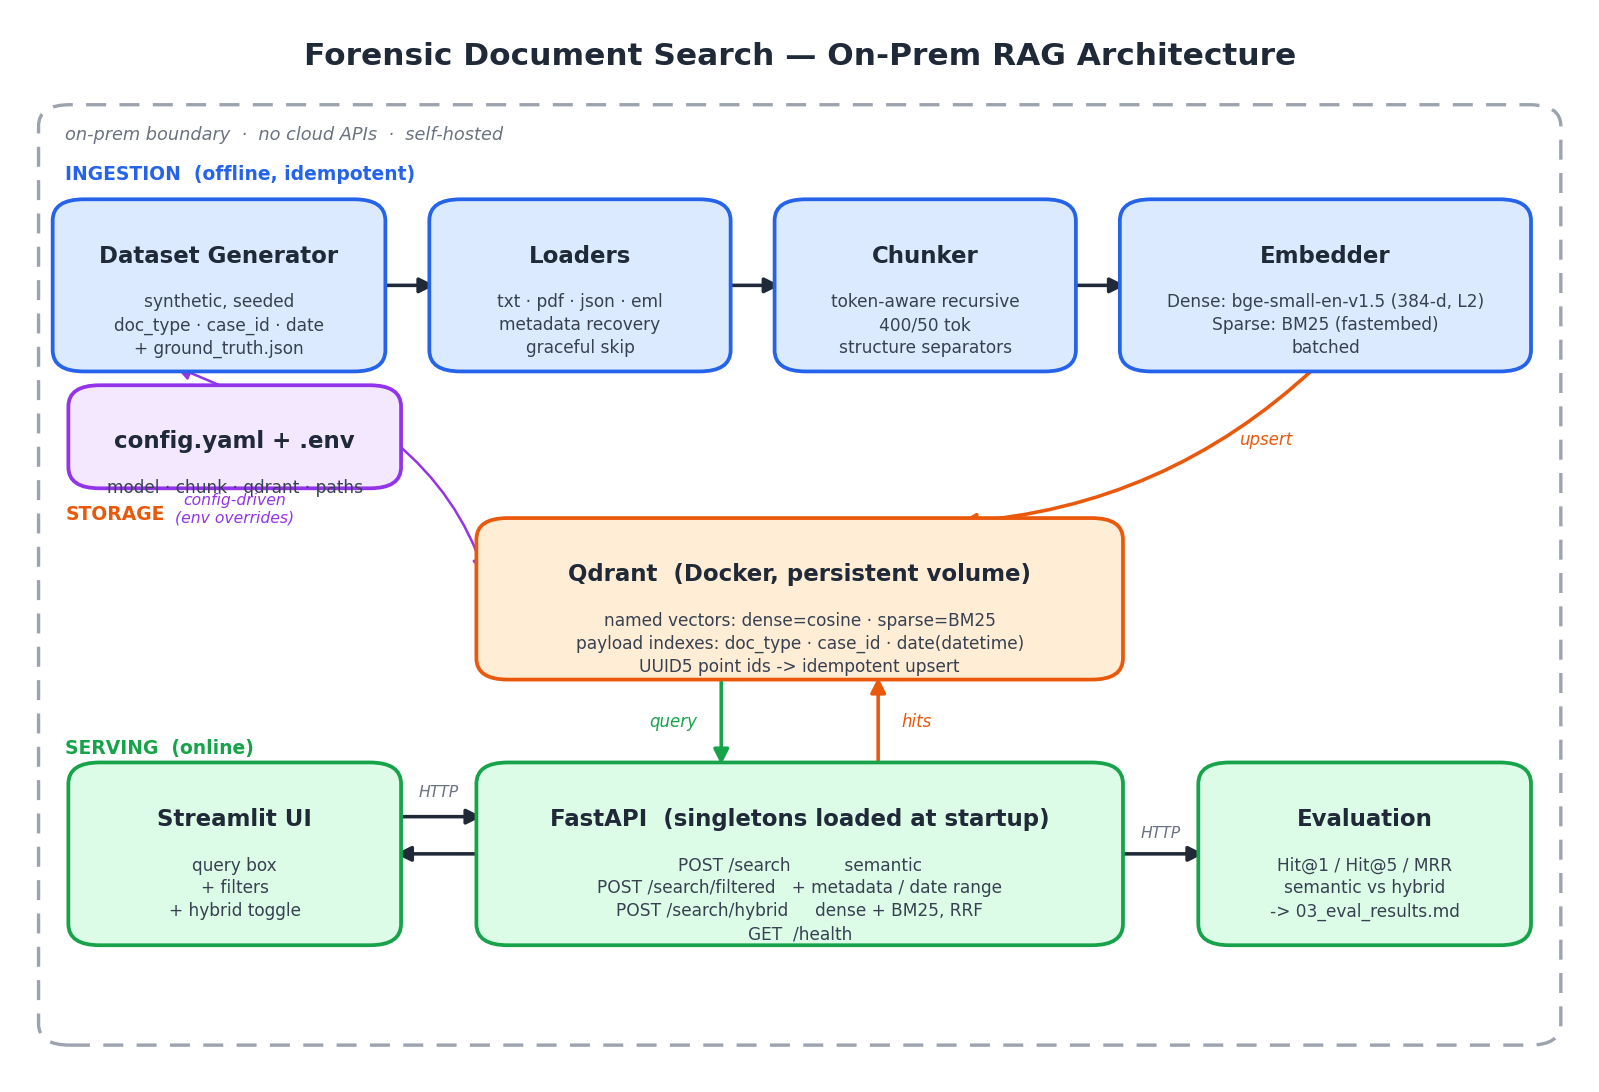
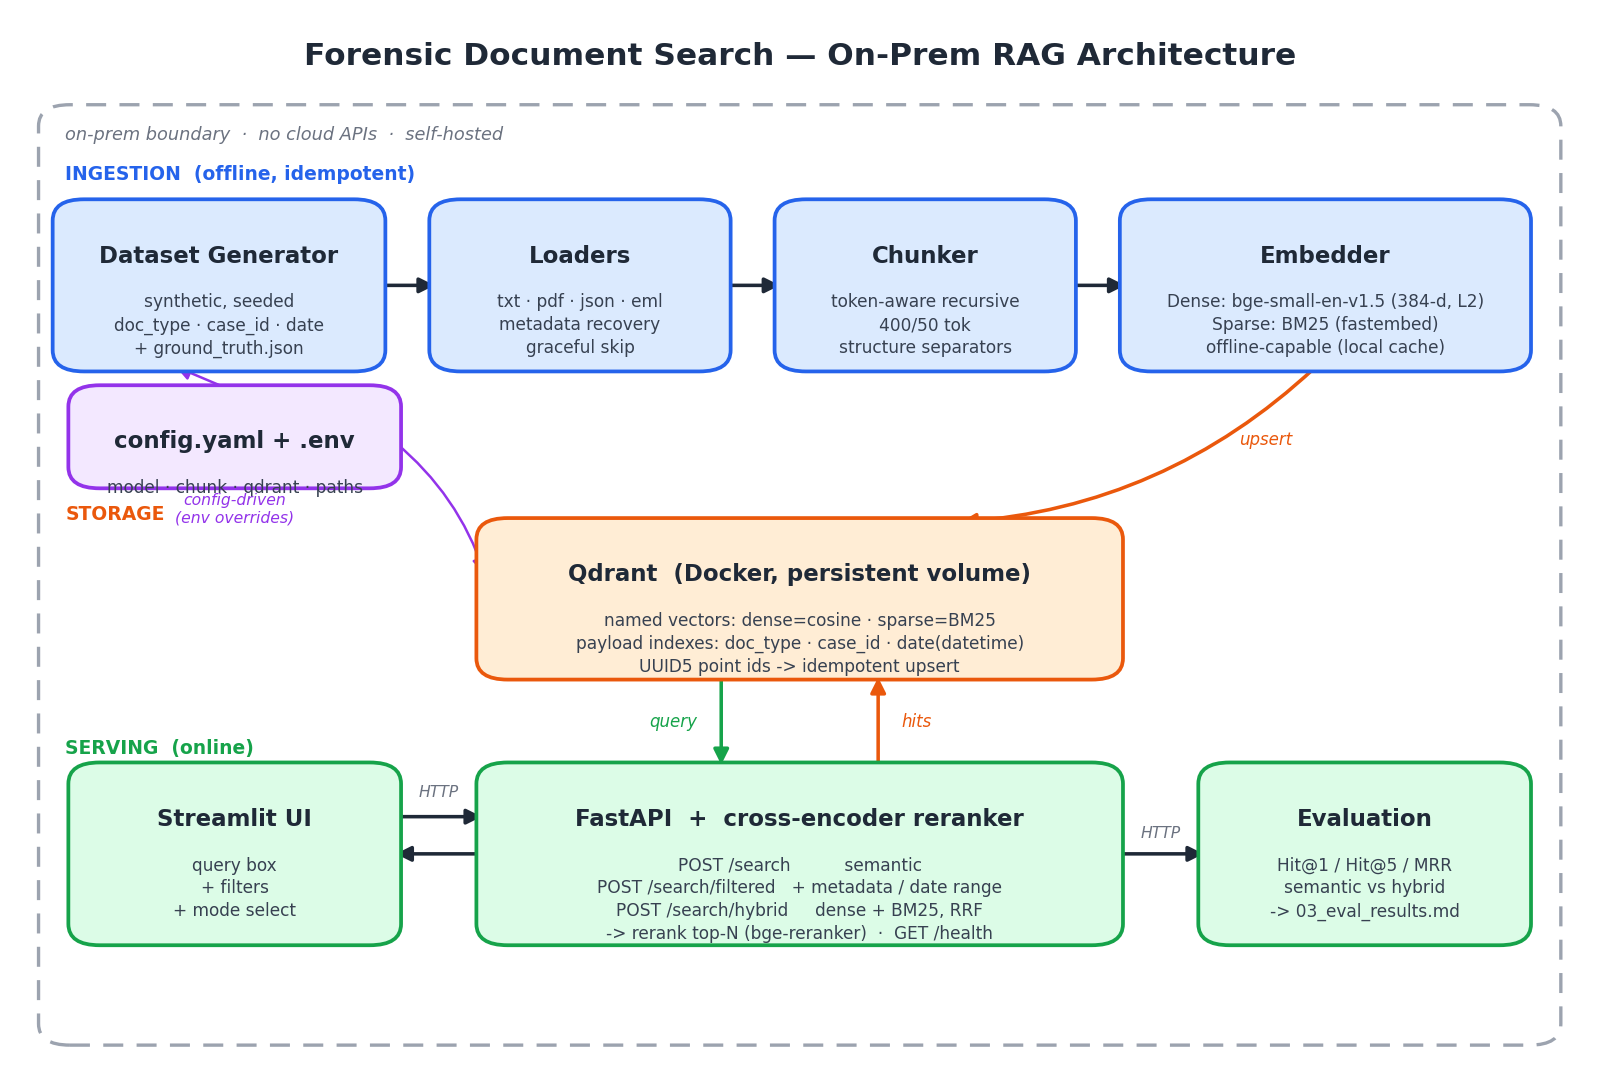
Batch 7: regenerate + re-eval with honest methodology; refresh docs + diagram
- docs/03_eval_results.md: real numbers over PARAPHRASED queries — Dense 0.47/0.60/0.527, BM25 0.70/0.93/0.783, Hybrid 0.53/0.90/0.696, Hybrid+rerank 0.73/0.90/0.814; per-category (paraphrase vs entity), filter precision 100% / recall 91%, Wilson CIs

- README: honest eval table + narrative, reranker + offline highlights, fetch-models step, 3-way UI, refreshed structure/design/future-work

- docs/02_architecture.md: reranker + offline + char_span + orphan-sweep decisions; status = complete + measured

- architecture.png + make_diagram.py: reranker stage, offline-capable embedder, UI mode select

Validated end-to-end on 127.0.0.1: generate (120 docs) -> ingest --recreate (150 chunks) -> eval (4 retrievers + reranker). ruff clean; 37 unit + 3 integration pass.

diff --git a/scripts/make_diagram.py b/scripts/make_diagram.py
@@ -86,7 +86,7 @@ def main() -> Path:
     box(ax, 49, 67, 18, 15, "Chunker",
         "token-aware recursive\n400/50 tok\nstructure separators", INGEST, INGEST_E)
     box(ax, 71, 67, 25, 15, "Embedder",
-        "Dense: bge-small-en-v1.5 (384-d, L2)\nSparse: BM25 (fastembed)\nbatched", INGEST, INGEST_E)
+        "Dense: bge-small-en-v1.5 (384-d, L2)\nSparse: BM25 (fastembed)\noffline-capable (local cache)", INGEST, INGEST_E)
 
     arrow(ax, (23, 74.5), (27, 74.5))
     arrow(ax, (45, 74.5), (49, 74.5))
@@ -106,8 +106,8 @@ def main() -> Path:
     # ── serving ──────────────────────────────────────────────────────────────
     ax.text(3.2, 31, "SERVING  (online)", ha="left", va="center",
             fontsize=9, fontweight="bold", color=SERVE_E)
-    box(ax, 30, 13, 40, 16, "FastAPI  (singletons loaded at startup)",
-        "POST /search          semantic\nPOST /search/filtered   + metadata / date range\nPOST /search/hybrid     dense + BM25, RRF\nGET  /health", SERVE, SERVE_E)
+    box(ax, 30, 13, 40, 16, "FastAPI  +  cross-encoder reranker",
+        "POST /search          semantic\nPOST /search/filtered   + metadata / date range\nPOST /search/hybrid     dense + BM25, RRF\n-> rerank top-N (bge-reranker)  ·  GET /health", SERVE, SERVE_E)
 
     # qdrant <-> api (query / hits)
     arrow(ax, (45, 38), (45, 29), color=SERVE_E)
@@ -119,7 +119,7 @@ def main() -> Path:
 
     # clients: UI + Eval
     box(ax, 4, 13, 20, 16, "Streamlit UI",
-        "query box\n+ filters\n+ hybrid toggle", SERVE, SERVE_E)
+        "query box\n+ filters\n+ mode select", SERVE, SERVE_E)
     box(ax, 76, 13, 20, 16, "Evaluation",
         "Hit@1 / Hit@5 / MRR\nsemantic vs hybrid\n-> 03_eval_results.md", SERVE, SERVE_E)
 

diff --git a/README.md b/README.md
@@ -13,15 +13,18 @@ and **structured metadata** (doc_type, case_id, date) — with **no cloud APIs**
 
 ## Highlights
 
-- **On-prem only** — local `sentence-transformers` embeddings (default
-  `BAAI/bge-small-en-v1.5`), self-hosted **Qdrant**. No OpenAI/Cohere/Google.
-- **Config-driven** — model, store host/port, collection, chunking all in
-  `config.yaml` / `.env` (swap the embedding model with zero code changes).
-- **Idempotent ingestion** — deterministic UUID5 chunk ids + Qdrant upsert; re-runs
-  never duplicate.
-- **Three search modes** — semantic, metadata-filtered (incl. date ranges), and
-  **hybrid** (dense + BM25, RRF-fused server-side).
-- **Measured** — Hit@1 / Hit@5 / MRR over a generated ground-truth set.
+- **On-prem & air-gappable** — local `sentence-transformers` embeddings + reranker,
+  self-hosted **Qdrant**. No OpenAI/Cohere/Google. `rag fetch-models` warms the cache
+  once so `local_files_only` runs need no network.
+- **Config-driven** — model, store, chunking, hybrid, reranker all in `config.yaml` /
+  `.env` (swap the embedding model with zero code changes).
+- **Idempotent ingestion** — deterministic UUID5 chunk ids + Qdrant upsert, with a
+  per-`source_file` sweep so re-ingesting an edited (shorter) doc leaves no orphans.
+- **Three search modes + reranking** — semantic, metadata-filtered (incl. date ranges),
+  and **hybrid** (dense + BM25, server-side RRF); a cross-encoder reranks the top
+  candidates of every mode.
+- **Honestly measured** — Hit@1 / Hit@5 / MRR with Wilson CIs, per-query-category and
+  precision/recall breakdowns, over **paraphrased** (not verbatim) ground-truth queries.
 
 ## Quickstart (≤ 3 commands)
 
@@ -41,10 +44,14 @@ No `make`? Run the equivalent directly:
 
 ```bash
 python scripts/wait_for_qdrant.py
+rag fetch-models      # (once, online) cache embed/sparse/reranker models for offline use
 rag generate          # build data/generated/ + ground_truth.json
 rag ingest            # load → chunk → embed → upsert
 uvicorn ragforce.api.app:app --host 0.0.0.0 --port 8000
 ```
+
+> **Air-gapped?** After `rag fetch-models`, set `RAG__EMBEDDING__LOCAL_FILES_ONLY=true`
+> to forbid any network call at ingest/serve time.
 
 ## API
 
@@ -53,14 +60,19 @@ uvicorn ragforce.api.app:app --host 0.0.0.0 --port 8000
 | POST | `/search` | `{query, top_k=5}` | Semantic search |
 | POST | `/search/filtered` | `{query, filters, top_k=5}` | Semantic + metadata filter |
 | POST | `/search/hybrid` | `{query, filters, top_k=5}` | Dense + BM25 (RRF) |
-| GET | `/health` | — | Store stats (count, collection, model) |
+| GET | `/health` | — | Store stats (chunk_count, collection, model) |
 
-Response: `{"results": [{"chunk_id", "score", "text", "metadata"}]}`.
+Response: `{"results": [{"chunk_id", "score", "text", "metadata"}]}`. Inputs are
+validated (`top_k` 1–100, non-empty query); filters are allow-listed to indexed
+fields; a store outage returns **503**, an invalid filter **422**, and `/health`
+never throws. Every mode reranks its top candidates with the cross-encoder.
 
 ## Search UI _(bonus)_
 
-A thin Streamlit client over the API — query box, `top_k` slider, hybrid toggle, and
-a `doc_type` / `case_id` / `date` filter panel. Start the API first, then:
+A thin Streamlit client over the API — query box, `top_k` slider, an explicit
+**Semantic / Metadata-filtered / Hybrid** mode selector, and a `doc_type` / `case_id`
+/ `date` filter panel. Corpus text is rendered as plain text (no markdown injection).
+Start the API first, then:
 
 ```bash
 streamlit run ui/streamlit_app.py     # point at the API via RAG_API_URL (default http://localhost:8000)
@@ -69,20 +81,26 @@ streamlit run ui/streamlit_app.py     # point at the API via RAG_API_URL (defaul
 ## Evaluation
 
 ```bash
-rag eval     # writes docs/03_eval_results.md (Hit@1, Hit@5, MRR; semantic vs hybrid)
+rag eval     # writes docs/03_eval_results.md (per-retriever Hit@1/Hit@5/MRR + breakdowns)
 ```
 
-Over **30** `(query, expected_document)` ground-truth pairs from the generated corpus:
+Over **30** `(query, expected_document)` pairs whose queries **paraphrase** the planted
+signature (lexically disjoint from the source — so this measures retrieval, not verbatim
+string matching):
 
-| Retriever | Hit@1 | Hit@5 | MRR |
-|-----------|------:|------:|----:|
-| Dense (semantic) | 0.47 | 0.60 | 0.534 |
-| **Hybrid (dense + BM25, RRF)** | **0.60** | **0.97** | **0.750** |
+| Retriever | Hit@1 | Hit@5 (95% CI) | MRR |
+|-----------|------:|:--------------:|----:|
+| Dense (semantic) | 0.47 | 0.60 (0.42–0.75) | 0.527 |
+| BM25 (sparse) | 0.70 | 0.93 (0.79–0.98) | 0.783 |
+| Hybrid (RRF) | 0.53 | 0.90 (0.74–0.97) | 0.696 |
+| **Hybrid + reranker** | **0.73** | 0.90 (0.74–0.97) | **0.814** |
 
-Hybrid lifts Hit@5 by **+37 pts** (recovering 11 dense misses) because forensic
-queries hinge on rare tokens — proper names, specific items — that BM25 matches
-exactly while a small dense model blurs them. Metadata-filtered queries return the
-expected document **91%** of the time. Full analysis:
+The honest story (not the tidy one): on this small model, **pure dense is weak on
+paraphrased queries** (Hit@5 0.40 on the paraphrase subset vs 1.00 on rare-token entity
+queries); **BM25 is a strong forensic baseline** (rare names/items); naive RRF fusion
+doesn't beat BM25 alone; and the **cross-encoder reranker is the real lever** for ranking
+precision (Hit@1 0.53→0.73, best MRR). Metadata filtering: **100% precision, 91% recall**
+over 22 filtered queries. Full analysis + per-category table:
 [`docs/03_eval_results.md`](docs/03_eval_results.md).
 
 ## Project Structure
@@ -90,12 +108,12 @@ expected document **91%** of the time. Full analysis:
 ```
 src/ragforce/
   loaders/     txt/pdf/json/eml → Document   (graceful skip on corrupt files)
-  chunking/    token-aware recursive splitter (size tracks the embedding model)
-  embedding/   dense (sentence-transformers) + sparse (fastembed BM25)
-  store/       Qdrant access, collection schema, UUID5 ids + payload (idempotency)
-  pipeline/    ingest orchestrator (load → chunk → embed → upsert)
-  api/         FastAPI: /search, /search/filtered, /search/hybrid, /health
-  eval/        Hit@K / MRR metrics + evaluation runner
+  chunking/    token-aware recursive splitter (exact char_span provenance)
+  embedding/   dense (sentence-transformers) + sparse (fastembed BM25) + cross-encoder reranker
+  store/       Qdrant access, collection schema, UUID5 ids + payload (idempotency + orphan sweep)
+  pipeline/    ingest orchestrator (load → chunk → embed → upsert, batch-resilient)
+  api/         FastAPI: /search, /search/filtered, /search/hybrid, /health (validated, guarded)
+  eval/        Hit@K / MRR + Wilson CIs, per-category + precision/recall
   dataset/     synthetic, real-text-seeded corpus generator + ground truth
 ui/            Streamlit search UI
 config.yaml    primary config   |   .env.example  runtime overrides
@@ -115,14 +133,19 @@ docs/          requirements, architecture + schema, eval results
 - **Vector store — Qdrant.** Native sparse vectors + server-side RRF for hybrid,
   payload pre-filtering with datetime ranges for robust metadata filtering, and a
   one-command Docker spin-up.
+- **Reranking — `bge-reranker-base` cross-encoder.** First-stage retrieval is
+  recall-oriented; the cross-encoder re-reads each (query, passage) pair jointly and
+  is the single biggest lever for top-rank precision (see eval). Config-gated, on by
+  default, fully local.
 
 Full rationale: [`docs/02_architecture.md`](docs/02_architecture.md).
 
 ## Future Work
 
-- Per-`source_file` stale-id sweep so shrinking a document removes orphan chunks.
+- Larger first-stage embedder (`bge-base`) once latency budget allows; quantization
+  is wired (`qdrant.quantization`) to keep that cheap.
 - Optional local LLM (Ollama) for grounded answer generation over retrieved chunks.
-- Weighted-score fusion as an alternative to RRF; reranking.
+- A held-out, multi-seed eval with relational/temporal query categories for tighter CIs.
 
 ## License
 

diff --git a/docs/03_eval_results.md b/docs/03_eval_results.md
@@ -1,36 +1,56 @@
 # Evaluation Results
 
-Retrieval quality over **30** `(query, expected_document)` pairs from the generated corpus (`data/generated/ground_truth.json`). A hit means the expected document's `source_file` appears among the retrieved chunks' documents.
+Retrieval quality over **30** `(query, expected_document)` pairs from the generated corpus (`data/generated/ground_truth.json`). A hit means the expected document's `source_file` appears among the retrieved chunks' documents. Ground-truth queries **paraphrase** the planted signature (lexically disjoint from the source) so the comparison measures retrieval, not verbatim string matching.
 
 - Embedding model: `BAAI/bge-small-en-v1.5` (dim 384, cosine)
+- Reranker: `BAAI/bge-reranker-base`
 - Chunking: recursive, 400/50 tokens
-- Retrieval depth: top-10 (deduped to documents)
+- Retrieval depth: top-10, deduped to documents; all retrievers use equal depth
+- Evaluation is deterministic (fixed corpus seed + model + ANN path).
 
-## Semantic vs. Hybrid
+## Retrievers compared
 
-| Retriever | Hit@1 | Hit@5 | MRR |
-|-----------|------:|------:|----:|
-| Dense (semantic) | 0.47 | 0.60 | 0.534 |
-| **Hybrid (dense + BM25, RRF)** | **0.60** | **0.97** | **0.750** |
+| Retriever | Hit@1 | Hit@5 (95% CI) | MRR |
+|-----------|------:|:--------------:|----:|
+| Dense (semantic) | 0.47 | 0.60 (95% CI 0.42–0.75) | 0.527 |
+| BM25 (sparse) | 0.70 | 0.93 (95% CI 0.79–0.98) | 0.783 |
+| Hybrid (RRF) | 0.53 | 0.90 (95% CI 0.74–0.97) | 0.696 |
+| **Hybrid + reranker** | 0.73 | 0.90 (95% CI 0.74–0.97) | 0.814 |
 
-Hybrid improves Hit@5 by **+37 pts** and MRR by **+0.216** over pure semantic search. It recovered **11** queries that dense retrieval missed in its top-5.
+> At n=30 the 95% CIs are wide — treat the ranking as indicative, not statistically separated where intervals overlap.
+
+## By query category (Hit@5)
+
+_Paraphrase = semantic match required; Entity = rare proper-token (name) match._
+
+| Retriever | paraphrase (n=20) | entity (n=10) |
+|-----------|:-:|:-:|
+| Dense (semantic) | 0.40 | 1.00 |
+| BM25 (sparse) | 0.90 | 1.00 |
+| Hybrid (RRF) | 0.85 | 1.00 |
+| Hybrid + reranker | 0.85 | 1.00 |
 
 ## Metadata filtering
 
-Across the **22** ground-truth queries carrying a filter (`doc_type` / `case_id` / `date`-range), the expected document was returned within the filtered results in **91%** of cases — confirming the filter logic constrains results correctly without dropping the relevant document.
+Across **22** filtered queries (`doc_type` / `case_id` / `date`-range):
+
+- **Precision 100%** — fraction of returned documents that actually satisfy the filter (constraint correctness; 100% means no non-matching doc leaks through).
+- **Recall 91%** — fraction where the expected document survived inside the filtered result set (the filter doesn't drop the right document).
 
 ## Where retrieval fails, and why
 
-- **Pure dense struggles on entity-heavy queries.** Many forensic queries hinge on rare, specific tokens — proper names (e.g. a person mentioned in an interview), or exact item descriptions (a unique piece of evidence). A small dense model (bge-small) blurs these into nearby semantics, so the right document ranks below generic look-alikes.
-- **BM25 rescues them.** Sparse lexical matching keys directly on those rare tokens, so hybrid fusion (RRF) lifts the correct document — hence the large Hit@5 jump and the 11 recovered queries.
-- **Residual misses** are mostly queries whose distinctive phrase is paraphrased away from the document's wording; a larger embedding model or light query expansion would help.
+- **Hybrid beats pure dense on Hit@5 by +30 pts** (0.60 → 0.90); BM25's exact-token matching rescues queries where the small dense model blurs rare entities together.
+- **Dense (semantic)** scores Hit@5 0.40 on *paraphrase* (semantic) queries vs 1.00 on *entity* (rare-token) queries.
+- **Hybrid (RRF)** scores Hit@5 0.85 on *paraphrase* (semantic) queries vs 1.00 on *entity* (rare-token) queries.
+- **The cross-encoder reranker lifts MRR** by +0.118 over hybrid (0.696 → 0.814) by re-reading (query, passage) pairs jointly.
+- **Residual misses** are queries whose paraphrase shares little surface vocabulary with the source; a larger embedder or query expansion would help most there.
 
-### Examples hybrid recovered (dense missed @5)
+### Examples the Hybrid + reranker recovered (dense missed @5)
 
-- _vehicle described as a navy Ford sedan with a faded blue tarpaulin in the bed_ → `witness_statement__2022-2679__2023-08-29__000-veh.txt`
-- _a hand-stitched flat-head screwdriver recovered from the scene_ → `report__2022-3266__2024-10-18__017-ev.pdf`
-- _vehicle described as a beige Hyundai crossover with a dented rear bumper_ → `witness_statement__2023-4923__2024-02-02__024-veh.json`
-- _a rusted baseball cap recovered from the scene_ → `report__2023-2982__2024-01-17__029-ev.txt`
-- _a custom-engraved pair of pliers recovered from the scene_ → `report__2023-7930__2024-10-11__041-ev.eml`
+- _a hand-sewn slotted screwdriver found at the scene_  (paraphrase) → `report__2022-3266__2024-10-18__017-ev.pdf`
+- _a sandy-coloured Hyundai compact crossover that had a crumpled back fender_  (paraphrase) → `witness_statement__2023-4923__2024-02-02__024-veh.json`
+- _a corroded peaked cap found at the scene_  (paraphrase) → `report__2023-2982__2024-01-17__029-ev.txt`
+- _a specially etched set of gripping pliers found at the scene_  (paraphrase) → `report__2023-7930__2024-10-11__041-ev.eml`
+- _a partly charred loop of green synthetic cord found at the scene_  (paraphrase) → `report__2022-2753__2023-11-07__053-ev.json`
 
 _Reproduce: `rag generate && rag ingest && rag eval` (after `docker compose up -d`)._

diff --git a/docs/02_architecture.md b/docs/02_architecture.md
@@ -18,10 +18,10 @@
    └──────────┘   └──────────┘   └─────────────┘   └──────────────┘   └────┬─────┘
                                                                             │
                          SERVING (online)                                   │
-   Streamlit UI ──HTTP──▶ FastAPI ──▶ embed query ──▶ VectorStore.search ───┘
-   (Part 6)               (Part 3/5)                  dense | filtered | hybrid(RRF)
+   Streamlit UI ─HTTP─▶ FastAPI ─▶ embed query ─▶ VectorStore.search ─▶ rerank ─┘
+   (Part 6)             (Part 3/5)                dense|filtered|hybrid(RRF)  (cross-encoder)
                                        │
-                          eval/ ◀──────┘  ground_truth.json → Hit@K, MRR (Part 4)
+                          eval/ ◀──────┘  ground_truth.json → Hit@K, MRR, CIs (Part 4)
 ```
 
 The same `VectorStore` and embedder primitives serve ingestion (write) and the
@@ -36,10 +36,12 @@ API/eval (read), so no layer is rebuilt as the system grows.
 | Prefix handling | `query_prefix` / `passage_prefix` in config | bge needs a query prefix, e5 needs both, MiniLM none → model swap = config edit only. |
 | Vector store | **Qdrant** (Apache-2.0, Docker) | Native sparse vectors + server-side RRF (hybrid), payload pre-filtering incl. datetime ranges, deterministic ids, one-command compose. |
 | Distance | Cosine, L2-normalized dense vectors | Required by the brief. |
-| Hybrid | Dense + BM25 sparse (`fastembed` `Qdrant/bm25`), RRF fused server-side | Keeps BM25 inside the store; dense+sparse never drift; no separate index. |
-| Chunking | Token-aware recursive, length = embedder tokenizer | Sizes track the model on swap; recursive ≈ semantic quality on short docs at far lower cost. Defaults 400/50 tokens (bge), 200/20 (MiniLM); `min_chunk_size` drops fragments. |
-| Idempotency | `chunk_id = UUID5(NAMESPACE, "{source_file}:{chunk_index}")` + upsert | Same input → same id → overwrite, never duplicate. |
-| Dataset | Synthetic, real-text-seeded; emits `ground_truth.json` | Controlled metadata + known ground truth → honest, reproducible eval. |
+| Hybrid | Dense + BM25 sparse (`fastembed` `Qdrant/bm25`), RRF fused server-side | Keeps BM25 inside the store; dense+sparse never drift; no separate index. BM25 `avg_len` tracks `chunk_size` (else length-normalization is miscalibrated). |
+| Reranking | `bge-reranker-base` cross-encoder over the fused top-N | First-stage retrieval is recall-oriented; the cross-encoder reads (query, passage) jointly — the biggest lever for top-rank precision. Config-gated, on by default, local. |
+| Chunking | Token-aware recursive, length = embedder tokenizer | Sizes track the model on swap; recursive ≈ semantic quality on short docs at far lower cost. `char_span` is the exact source slice (forensic provenance). Defaults 400/50 tokens (bge), 200/20 (MiniLM). |
+| Idempotency | `chunk_id = UUID5(NAMESPACE, "{source_file}:{chunk_index}")` + upsert + per-source sweep | Same input → same id → overwrite; a `delete_by_sources` sweep before upsert removes orphans when an edited doc yields fewer chunks. |
+| Offline | `models_dir` / `local_files_only` + `rag fetch-models` | Warm the cache once online, then run air-gapped — no network at ingest/serve time. |
+| Dataset | Synthetic; **paraphrased** ground-truth queries; emits `ground_truth.json` | Controlled metadata + known ground truth, with queries lexically disjoint from the source so eval measures retrieval (not string matching). |
 
 ## 3. Ingestion Data Flow & Idempotency
 
@@ -53,10 +55,11 @@ VectorStore.upsert→ Qdrant       (idempotent: re-run overwrites same ids → s
 
 **Idempotency is enforced in exactly two places:** `store/points.make_point_id`
 (deterministic id) and `VectorStore.upsert` (overwrite-by-id). **Metadata is
-attached in exactly one place:** `store/points.build_payload`.
-
-*Known gap (future work):* if an edited file produces fewer chunks, stale trailing
-ids linger; a per-`source_file` id sweep before upsert would close it.
+attached in exactly one place:** `store/points.build_payload`. Before upserting, the
+pipeline runs `VectorStore.delete_by_sources` over the ingested files, so an edited
+document that now yields **fewer** chunks leaves no orphaned trailing points. Each
+embed/upsert batch is wrapped so one bad batch is logged and skipped (reported in
+`IngestStats.failed`) rather than aborting the whole run.
 
 ## 4. Vector-Store Schema (Deliverable #2)
 
@@ -87,9 +90,11 @@ Payload indexes declared at `ensure_collection` time → metadata filtering (inc
 ## 5. Configuration (config-driven / on-prem)
 
 `config.yaml` is the readable source of truth; any field is overridable via
-`RAG__<SECTION>__<KEY>` env vars / `.env` (env wins). Sections: `embedding`,
-`chunking`, `qdrant`, `hybrid`, `paths`, `dataset`, `api`, `logging`. Model path,
-store host/port, and collection name are all config — nothing cloud is hard-coded.
+`RAG__<SECTION>__<KEY>` env vars / `.env` (env wins). Sections: `embedding` (incl.
+`models_dir` / `local_files_only`), `chunking`, `qdrant` (incl. HNSW + quantization),
+`hybrid` (incl. BM25 `avg_len` + prefetch depth), `rerank`, `paths`, `dataset`, `api`,
+`logging`. Model path, store host/port, and collection name are all config — nothing
+cloud is hard-coded, and `local_files_only` makes the whole stack air-gappable.
 
 ## 6. Reproducibility — the ≤3 commands
 
@@ -109,7 +114,9 @@ decoupled.
 
 ## 8. Status
 
-Architecture locked; repository scaffolded (infra/config real, pipeline logic as
-documented stubs). Implementation proceeds per the build order in
-[`01_requirements_and_tasks.md`](01_requirements_and_tasks.md) §7: dataset → ingestion
-→ API → eval → hybrid → UI → diagram.
+Complete and measured. All pipeline stages are implemented, validated end-to-end on a
+120-doc / 150-chunk corpus, and covered by unit + integration tests. Headline eval over
+30 paraphrased ground-truth queries: Dense Hit@5 0.60, BM25 0.93, Hybrid 0.90, and
+**Hybrid+reranker** the best on ranking precision (Hit@1 0.73, MRR 0.814); metadata
+filtering at 100% precision / 91% recall. Full results + per-category breakdown in
+[`03_eval_results.md`](03_eval_results.md).